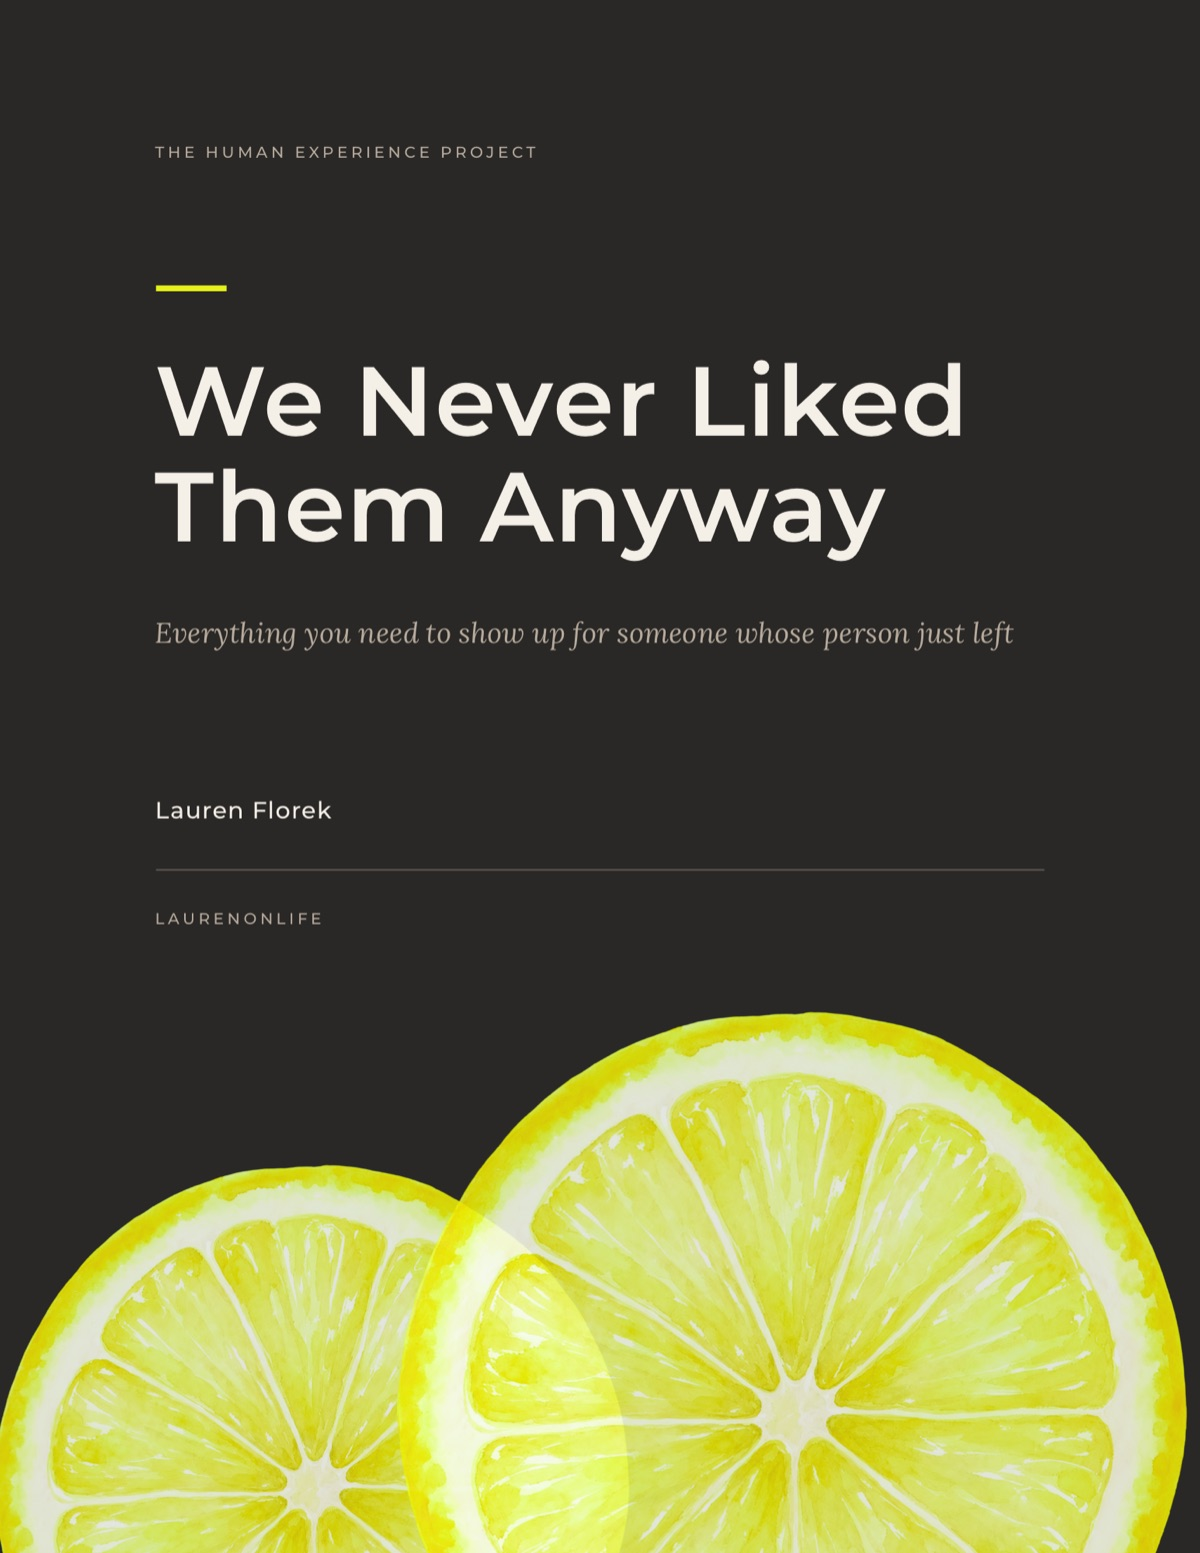
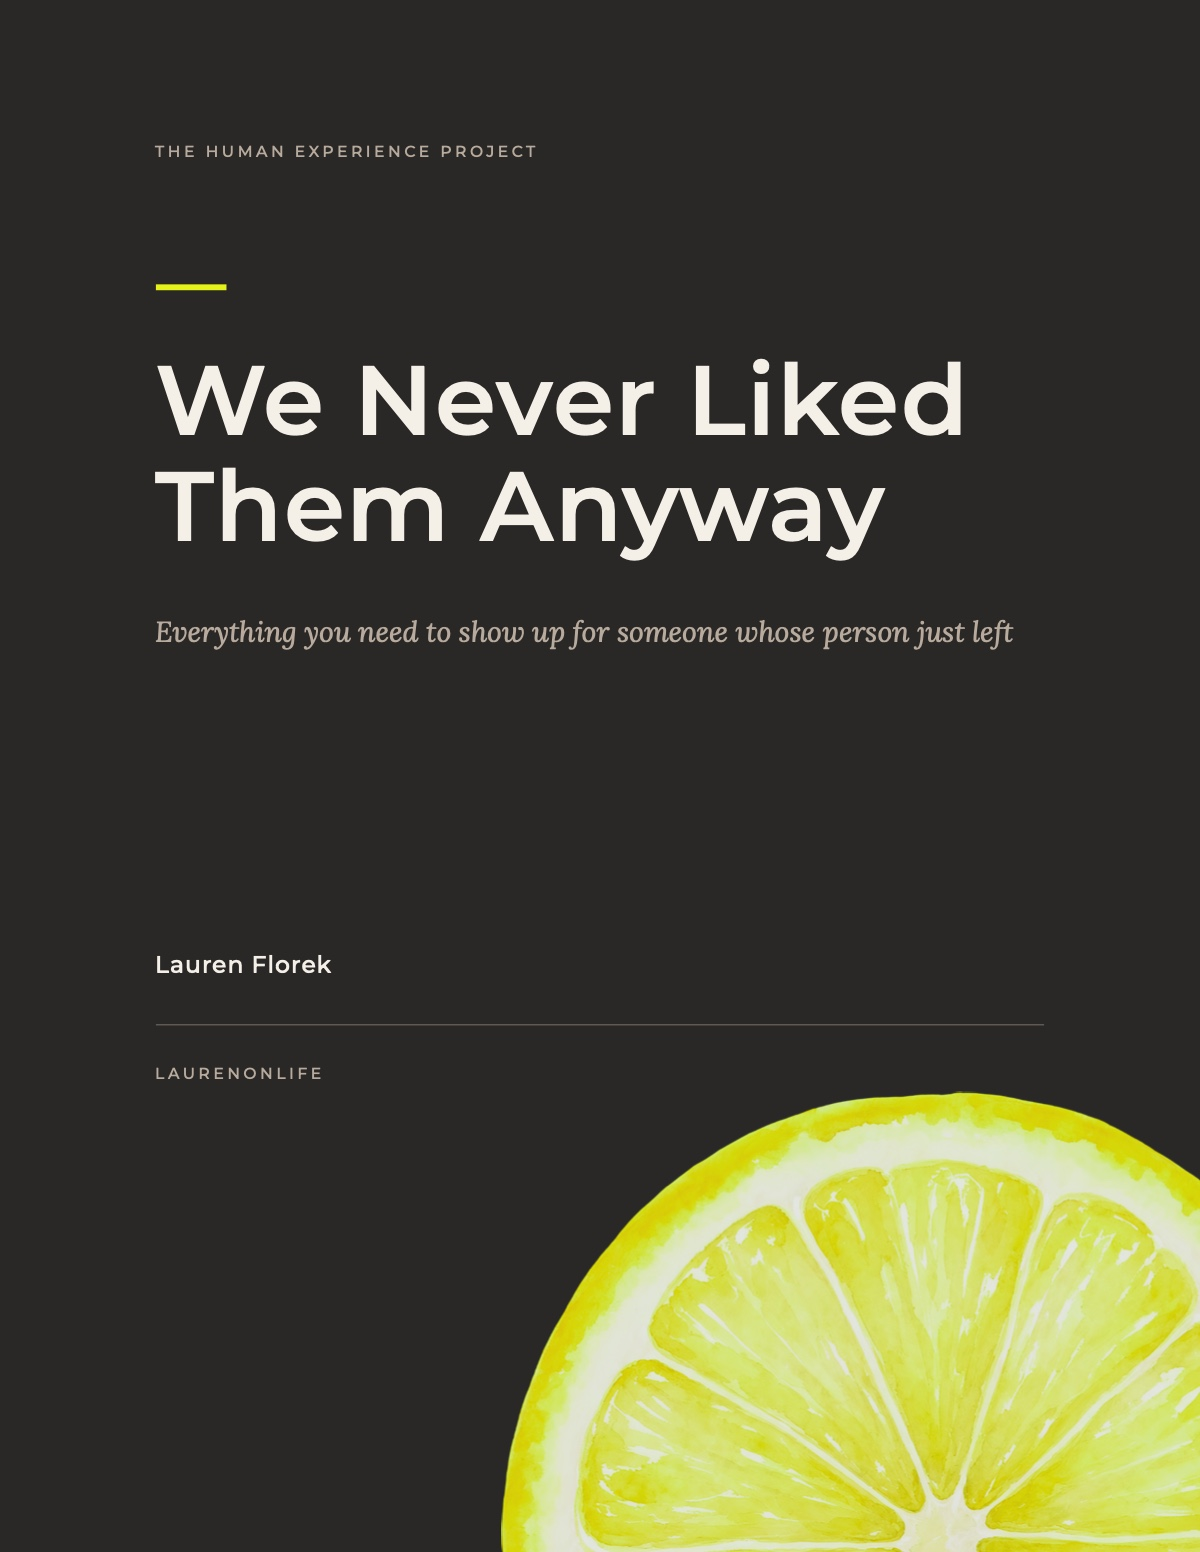
Give We Never Liked Them Anyway a single corner lemon on its cover
The two overlapping lemons read as busy next to the Book Club Kit. One
larger slice in the lower right keeps the pair reading as a set while
staying clearly distinct. The image filename is unchanged, so the
references carry a version marker to get browsers off the cached copy.

diff --git a/never-liked-them/index.html b/never-liked-them/index.html
@@ -15,7 +15,7 @@
   <meta property="og:title" content="We Never Liked Them Anyway, a host kit by Lauren Florek">
   <meta property="og:description" content="Everything you need to show up for someone whose person just left. A 29-page host kit for the friends.">
   <meta property="og:url" content="https://laurenonlife.com/never-liked-them">
-  <meta property="og:image" content="https://laurenonlife.com/images/never-liked-them-cover.jpg">
+  <meta property="og:image" content="https://laurenonlife.com/images/never-liked-them-cover.jpg?v=2">
   <meta name="twitter:card" content="summary_large_image">
   <link rel="preconnect" href="https://fonts.googleapis.com">
   <link rel="preconnect" href="https://fonts.gstatic.com" crossorigin>
@@ -28,7 +28,7 @@
     "name": "We Never Liked Them Anyway",
     "description": "A 29-page host kit for gathering friends around someone after a breakup: who to invite, what to say, the toasts, the lemonade, and a Point Person system for the month after.",
     "brand": { "@type": "Brand", "name": "Lauren On Life" },
-    "image": "https://laurenonlife.com/images/never-liked-them-cover.jpg",
+    "image": "https://laurenonlife.com/images/never-liked-them-cover.jpg?v=2",
     "url": "https://laurenonlife.com/never-liked-them",
     "offers": {
       "@type": "Offer",
@@ -58,7 +58,7 @@
   <section class="section-lg bg-porcelain">
     <div class="wrap book">
       <div class="book-cover">
-        <img src="../images/never-liked-them-cover.jpg" alt="Cover of We Never Liked Them Anyway by Lauren Florek. Two overlapping watercolor lemon slices on a black page.">
+        <img src="../images/never-liked-them-cover.jpg?v=2" alt="Cover of We Never Liked Them Anyway by Lauren Florek. Two overlapping watercolor lemon slices on a black page.">
       </div>
       <div>
         <p class="kicker">A host kit, for the friends</p>

diff --git a/shop/index.html b/shop/index.html
@@ -110,7 +110,7 @@
 
         <div class="shop-item">
           <div class="shop-cover">
-            <a href="../never-liked-them/"><img src="../images/never-liked-them-cover.jpg" alt="Cover of We Never Liked Them Anyway by Lauren Florek."></a>
+            <a href="../never-liked-them/"><img src="../images/never-liked-them-cover.jpg?v=2" alt="Cover of We Never Liked Them Anyway by Lauren Florek."></a>
           </div>
           <div>
             <p class="shop-price">$32</p>
